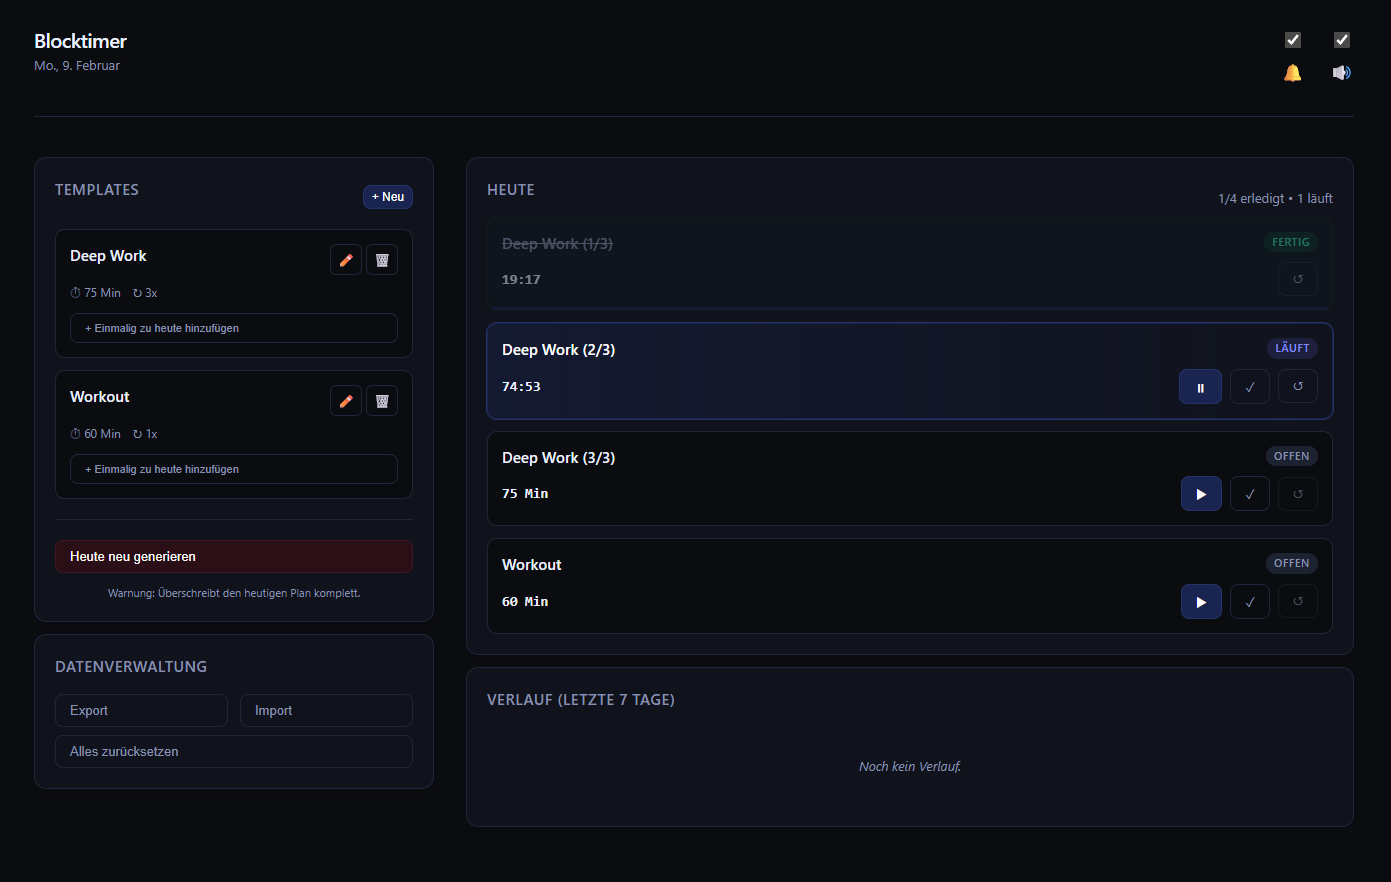
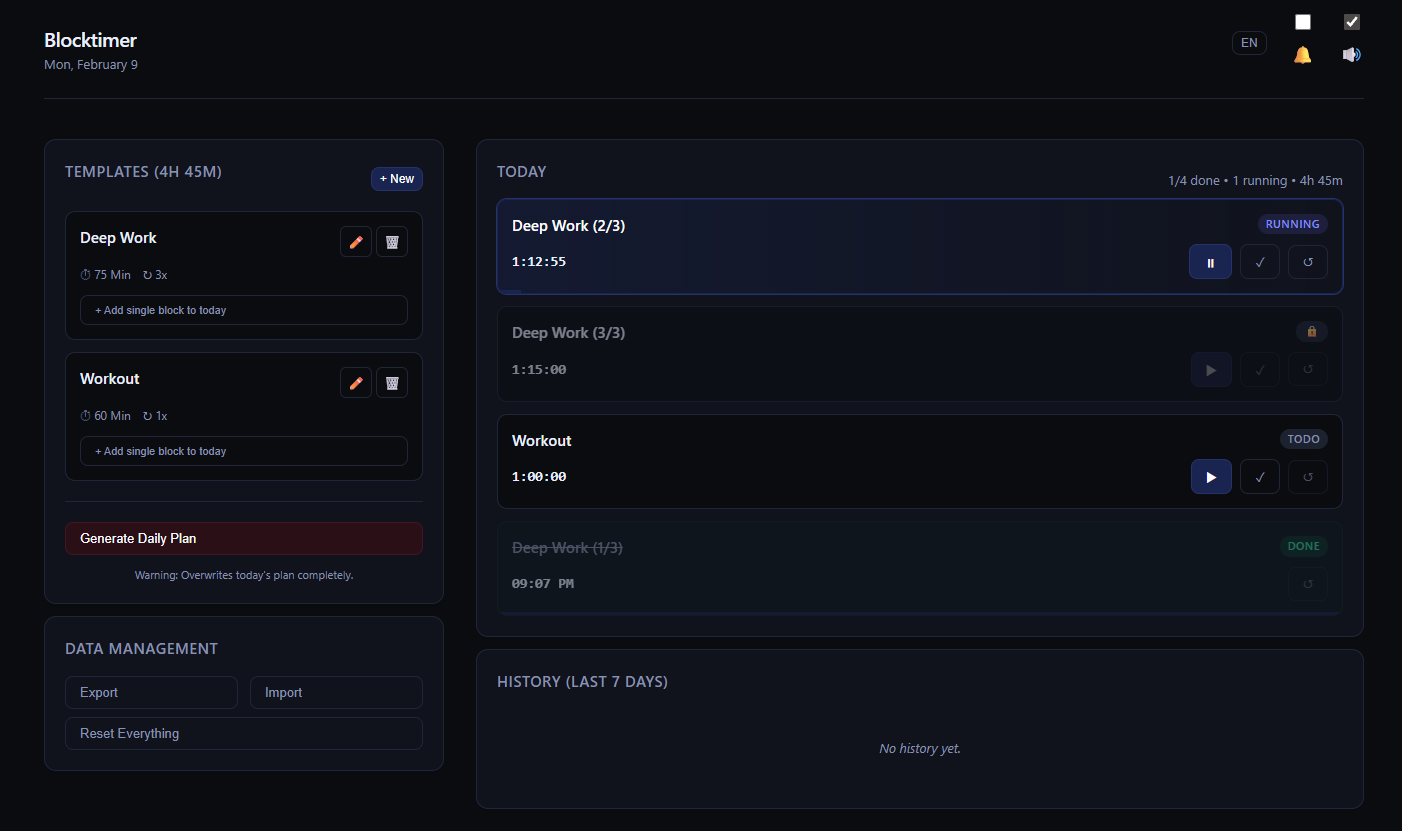
docs: update README with new features; feat: finalize v2 features (limits, i18n, locking)

diff --git a/index.html b/index.html
@@ -188,8 +188,7 @@
 
     button:disabled {
       opacity: 0.5;
-      cursor: not-allowed;
-      pointer-events: none;
+      cursor: default;
     }
 
     .row {
@@ -496,7 +495,7 @@
         </div>
         <div style="flex:1">
           <label id="lblTplReps">Wdh.</label>
-          <input id="tplReps" type="number" value="1" min="1" max="10" required />
+          <input id="tplReps" type="number" value="1" min="1" required />
         </div>
       </div>
       <div class="actions">
@@ -584,6 +583,9 @@
           exportStarted: "Export gestartet",
           importError: "Import fehlerhaft",
           emptyHistory: "Noch kein Verlauf.",
+          resetLocked: (name) => `Erst '${name}' beenden oder zurücksetzen!`,
+          errTotalExceeded: "24h Limit erreicht! Tagesplan ist voll.",
+          errBlockTooLong: "Block darf max. 24h lang sein.",
         },
         en: {
           templates: "Templates",
@@ -640,6 +642,9 @@
           exportStarted: "Export started",
           importError: "Import failed",
           emptyHistory: "No history yet.",
+          resetLocked: (name) => `Finish or reset '${name}' first!`,
+          errTotalExceeded: "24h limit reached! Day plan is full.",
+          errBlockTooLong: "Block max duration is 24h.",
         }
       };
 
@@ -675,6 +680,12 @@
           return `${h}:${pad(m % 60)}:${pad(sec)}`;
         }
         return `${pad(m)}:${pad(sec)}`;
+      };
+
+      const formatDuration = (min) => {
+        const h = Math.floor(min / 60);
+        const m = min % 60;
+        return `${h}h${m > 0 ? ` ${m}m` : ''}`;
       };
 
       // --- Storage ---
@@ -754,11 +765,20 @@
         const dk = dateKey();
         if (!days[dk] || force) {
           const tasks = [];
+
+          // Validate Total Time for Display Warning (soft check)
+          let totalMin = 0;
+          templates.forEach(t => totalMin += (Number(t.minutes) * Number(t.reps || 1)));
+          if (totalMin > 1440) setTimeout(() => toast(t("errTotalExceeded")), 500);
+
           templates.forEach(t => {
-            const reps = Math.max(1, Math.min(10, Number(t.reps || 1)));
+            const reps = Math.max(1, Number(t.reps || 1)); // Removed max 10 limit
+            const grp = uid();
             for (let i = 1; i <= reps; i++) {
               tasks.push({
                 id: uid(),
+                groupId: grp,
+                repIdx: i,
                 name: t.name + (reps > 1 ? ` (${i}/${reps})` : ""),
                 minutes: Number(t.minutes),
                 status: "todo",
@@ -818,6 +838,20 @@
       const renderTemplates = () => {
         const list = $("tplList");
         list.innerHTML = "";
+
+        // Calculate Total
+        const total = templates.reduce((acc, t) => acc + (t.minutes * (t.reps || 1)), 0);
+        $("lblTemplates").textContent = `${t("templates")} (${formatDuration(total)})`;
+
+        const newBtn = $("openTplModalBtn");
+        if (total >= 1440) {
+          newBtn.disabled = true;
+          newBtn.title = t("errTotalExceeded");
+        } else {
+          newBtn.disabled = false;
+          newBtn.title = "";
+        }
+
         if (!templates.length) return list.innerHTML = `<div class="empty-state">${t("emptyTpl")}</div>`;
 
         templates.forEach(tobj => {
@@ -852,6 +886,14 @@
           el.querySelector(".edit-btn").onclick = () => openTplModal(tobj);
           el.querySelector(".add-single-btn").onclick = () => {
             const tasks = getToday();
+            // Check limit
+            const currentTotal = tasks.reduce((acc, t) => acc + (t.duration / 60000), 0);
+            const newBlock = Number(tobj.minutes);
+
+            if (currentTotal + newBlock > 1440) {
+              return toast(t("errTotalExceeded"));
+            }
+
             tasks.push({
               id: uid(),
               name: tobj.name,
@@ -875,17 +917,56 @@
         // Update Header Summary
         const doneCount = tasks.filter(t => t.status === "done").length;
         const runningCount = tasks.filter(t => t.status === "running").length;
-        $("summaryLabel").textContent = `${doneCount}/${tasks.length} ${t("done")}` + (runningCount ? ` • ${runningCount} ${t("running")}` : "");
+        const totalMin = Math.round(tasks.reduce((acc, t) => acc + (t.duration / 60000), 0));
+
+        $("summaryLabel").textContent = `${doneCount}/${tasks.length} ${t("done")}` +
+          (runningCount ? ` • ${runningCount} ${t("running")}` : "") +
+          ` • ${formatDuration(totalMin)}`;
 
         // Render List
         list.innerHTML = "";
         if (!tasks.length) return list.innerHTML = `<div class="empty-state">${t("emptyToday")}</div>`;
 
-        tasks.forEach(tobj => {
+        // Smart Sort for Display
+        const sortedTasks = tasks
+          .map((t, i) => ({ t, i })) // Keep index
+          .sort((a, b) => {
+            // 1. Running -> Top
+            if (a.t.status === "running" && b.t.status !== "running") return -1;
+            if (a.t.status !== "running" && b.t.status === "running") return 1;
+
+            // 2. Done -> Bottom
+            if (a.t.status === "done" && b.t.status !== "done") return 1;
+            if (a.t.status !== "done" && b.t.status === "done") return -1;
+
+            // 3. Original Index (Flow)
+            return a.i - b.i;
+          })
+          .map(x => x.t);
+
+        sortedTasks.forEach(tobj => {
           const el = document.createElement("div");
           el.className = `item ${tobj.status}`;
 
           let badge = "todo", badgeText = t("badgeTodo"), timeLeft = "", progress = 0;
+          let isLocked = false;
+
+          // Check Sequential Lock (Forward)
+          if (tobj.groupId && tobj.repIdx > 1) {
+            const prev = tasks.find(x => x.groupId === tobj.groupId && x.repIdx === tobj.repIdx - 1);
+            if (prev && prev.status !== "done") isLocked = true;
+          }
+
+          // Check Reverse Lock (Successor Active?)
+          let isRevLocked = false;
+          let successorName = "";
+          if (tobj.groupId && tobj.status === "done") {
+            const next = tasks.find(x => x.groupId === tobj.groupId && x.repIdx === tobj.repIdx + 1);
+            if (next && next.status !== "todo") {
+              isRevLocked = true;
+              successorName = next.name;
+            }
+          }
 
           if (tobj.status === "running") {
             badge = "running"; badgeText = t("badgeRunning");
@@ -901,7 +982,14 @@
             progress = 100;
             timeLeft = new Date(tobj.completedAt).toLocaleTimeString(cfg.lang === "de" ? "de-DE" : "en-US", { hour: "2-digit", minute: "2-digit" });
           } else {
-            timeLeft = tobj.minutes + " Min";
+            // Todo: Show mm:ss instead of "25 Min" for consistency
+            timeLeft = formatTime(tobj.minutes * 60000);
+          }
+
+          if (isLocked) {
+            badge = "todo";
+            badgeText = "🔒";
+            el.style.opacity = "0.5";
           }
 
           el.innerHTML = `
@@ -914,9 +1002,13 @@
           <span class="time-large" id="time-${tobj.id}">${timeLeft}</span>
           <div class="row" style="gap:8px">
              ${tobj.status === "running" ? `<button class="primary pause-btn" title="${t("btnPause")}">⏸</button>` : ""}
-             ${(tobj.status === "paused" || tobj.status === "todo") ? `<button class="primary play-btn" title="${t("btnStart")}">▶</button>` : ""}
-             ${tobj.status !== "done" ? `<button class="ghost done-btn" title="${t("btnMarkDone")}">✓</button>` : ""}
-             <button class="ghost undo-btn" title="${t("btnReset")}" ${tobj.status === "todo" ? "disabled" : ""}>↺</button>
+             ${(tobj.status === "paused" || tobj.status === "todo") ? `<button class="primary play-btn" title="${t("btnStart")}" ${isLocked ? "disabled" : ""}>▶</button>` : ""}
+             ${tobj.status !== "done" ? `<button class="ghost done-btn" title="${t("btnMarkDone")}" ${isLocked ? "disabled" : ""}>✓</button>` : ""}
+             <button class="ghost undo-btn" 
+               title="${isRevLocked ? t("resetLocked", successorName) : t("btnReset")}" 
+               ${tobj.status === "todo" ? "disabled" : ""}
+               style="${isRevLocked ? "opacity:0.5;" : ""}"
+             >↺</button>
           </div>
         </div>
       `;
@@ -949,7 +1041,7 @@
             updateTask(tobj);
           };
           if (true) el.querySelector(".undo-btn").onclick = () => {
-            if (tobj.status === "todo") return;
+            if (tobj.status === "todo" || isRevLocked) return;
             tobj.status = "todo";
             tobj.endsAt = null;
             tobj.remainingMs = null;
@@ -998,14 +1090,7 @@
         });
       };
 
-      // --- Modal Logic ---
-      const openTplModal = (tpl = null) => {
-        $("tplId").value = tpl ? tpl.id : "";
-        $("tplName").value = tpl ? tpl.name : "";
-        $("tplMinutes").value = tpl ? tpl.minutes : 25;
-        $("tplReps").value = tpl ? tpl.reps : 1;
-        $("tplModal").showModal();
-      };
+
 
       $("tplForm").onsubmit = (e) => {
         // e.preventDefault() handled by dialog method="dialog" but we need to guard
@@ -1015,6 +1100,22 @@
           minutes: Number($("tplMinutes").value),
           reps: Number($("tplReps").value)
         };
+
+        // Check 24h limit for single block config
+        if (data.minutes * data.reps > 1440) {
+          return toast(t("errBlockTooLong"));
+        }
+
+        // Check if TOTAL templates duration exceeds 24h
+        let currentTotal = 0;
+        templates.forEach(t => {
+          if ($("tplId").value && t.id === $("tplId").value) return; // Ignore self if editing
+          currentTotal += (t.minutes * (t.reps || 1));
+        });
+
+        if (currentTotal + (data.minutes * data.reps) > 1440) {
+          return toast(t("errTotalExceeded"));
+        }
 
         if ($("tplId").value) {
           // Edit
@@ -1027,6 +1128,49 @@
         save();
         renderTemplates();
         toast(t("save"));
+      };
+
+      const validateTpl = () => {
+        const min = Number($("tplMinutes").value) || 0;
+        const reps = Number($("tplReps").value) || 0;
+        const currentBlock = min * reps;
+        const saveBtn = $("btnTplSave");
+
+        // 1. Single block limit
+        if (currentBlock > 1440) {
+          saveBtn.disabled = true;
+          saveBtn.title = t("errBlockTooLong");
+          return;
+        }
+
+        // 2. Total limit
+        let otherTotal = 0;
+        const id = $("tplId").value;
+        templates.forEach(t => {
+          if (id && t.id === id) return;
+          otherTotal += (t.minutes * (t.reps || 1));
+        });
+
+        if (otherTotal + currentBlock > 1440) {
+          saveBtn.disabled = true;
+          saveBtn.title = t("errTotalExceeded");
+          return;
+        }
+
+        saveBtn.disabled = false;
+        saveBtn.title = "";
+      };
+
+      $("tplMinutes").oninput = validateTpl;
+      $("tplReps").oninput = validateTpl;
+
+      const openTplModal = (tpl = null) => {
+        $("tplId").value = tpl ? tpl.id : "";
+        $("tplName").value = tpl ? tpl.name : "";
+        $("tplMinutes").value = tpl ? tpl.minutes : 25;
+        $("tplReps").value = tpl ? tpl.reps : 1;
+        validateTpl(); // Validate initial state
+        $("tplModal").showModal();
       };
 
       $("openTplModalBtn").onclick = () => openTplModal();
@@ -1138,9 +1282,7 @@
 
       const updateRunningUI = (t) => {
         const left = Math.max(0, t.endsAt - Date.now());
-        const minutes = Math.floor(left / 60000);
-        const seconds = Math.floor((left % 60000) / 1000);
-        const timeStr = `${minutes}:${seconds.toString().padStart(2, '0')}`;
+        const timeStr = formatTime(left);
 
         document.title = `${timeStr} - ${t.name}`;
 

diff --git a/README.md b/README.md
@@ -10,11 +10,15 @@ Blocktimer is a simple, beautiful, and privacy-focused time-blocking application
 ## ✨ Features
 
 - **🎯 Focus Blocks**: Create daily schedules with custom block durations.
+- **🌍 Internationalization**: Switch between German (DE) and English (EN).
+- **🔒 Sequential Logic**: Recurring blocks (e.g., "Deep Work 1/3") are locked sequentially. You can only start the next block when the previous one is done.
+- **🛡 24h Limits**: Built-in validation ensures your daily plan and single blocks never exceed 24 hours.
+- **📊 Smart Sorting**: Finished tasks move to the bottom, active tasks bubble to the top.
 - **🎨 Modern Dark UI**: A "Midnight Blue" aesthetic with clear visual states for running, paused, and completed tasks.
-- **� Local First**: All data is stored in your browser's `localStorage`. Nothing leaves your device.
+- **💾 Local First**: All data is stored in your browser's `localStorage`. Nothing leaves your device.
 - **🔄 Templates**: Save frequently used days as templates for quick setup.
 - **⚡ Real-time Timer**: Distraction-free timer with progress bars and "always-on" tab title updates.
-- **� Notifications**: Optional sound and desktop notifications when a block finishes.
+- **🔔 Notifications**: Optional sound and desktop notifications when a block finishes.
 - **☁ Export/Import**: Backup your history and settings to a JSON file.
 
 ## 🛠 Tech Stack
